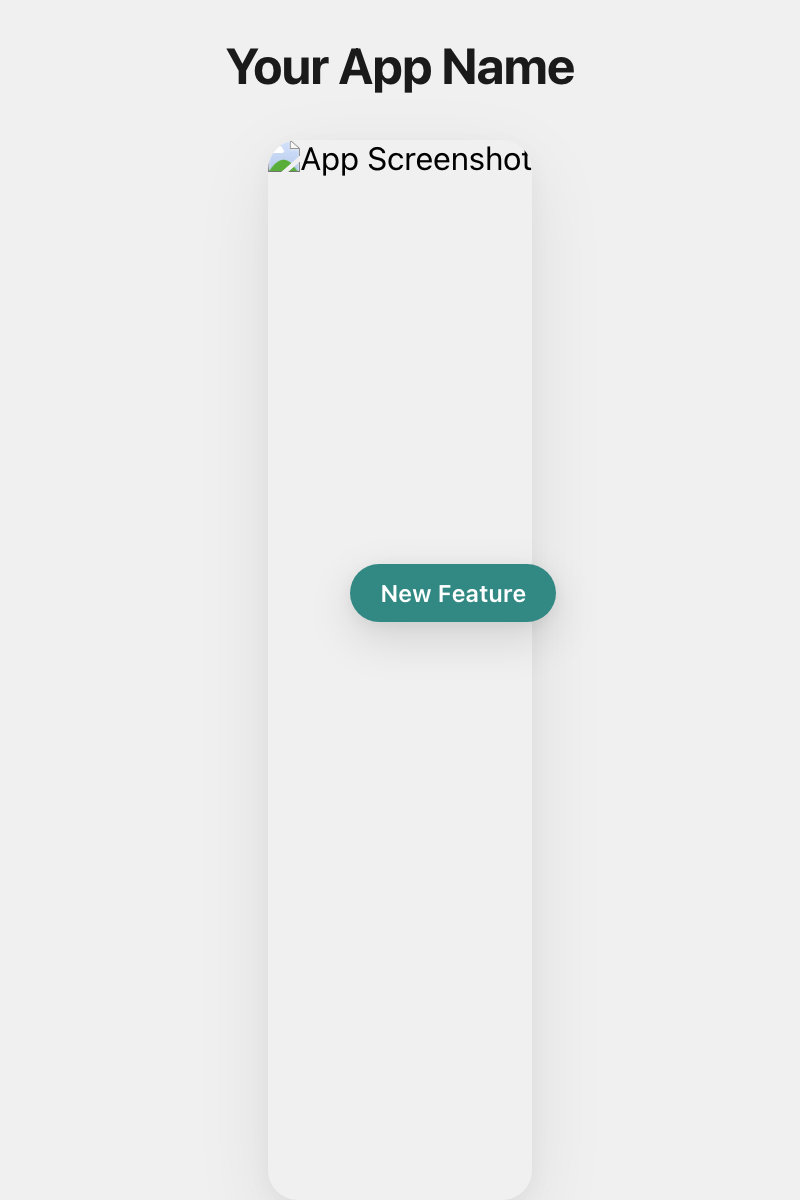
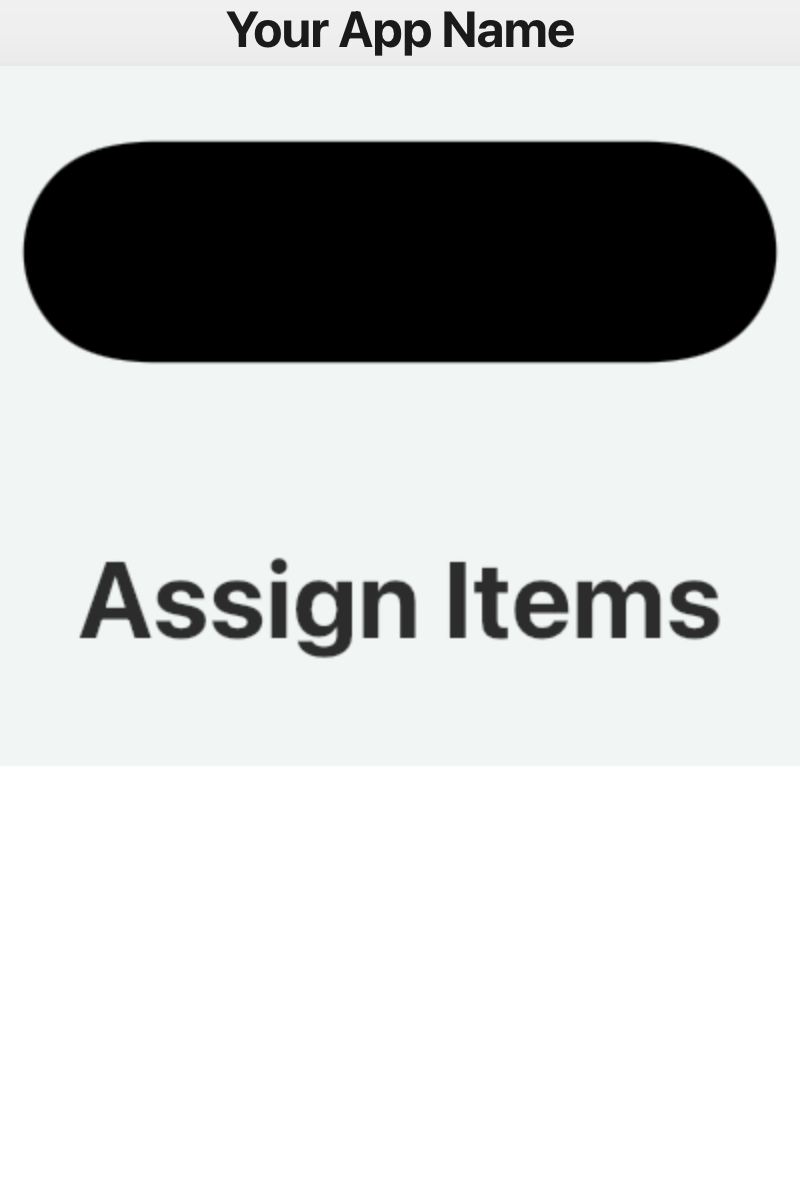
Add demo screenshot fallback to all templates
Templates now show a Checkmate app screenshot by default when no
user image is uploaded. User-uploaded images override the demo via
the src param. Also fixes feature-callout layout and regenerates
all thumbnails with the demo image.

diff --git a/app/static/templates/feature-callout/index.html b/app/static/templates/feature-callout/index.html
@@ -41,28 +41,29 @@
     align-items: flex-start;
     justify-content: center;
     width: 100%;
-    padding: 1% 8% 0;
+    padding: 1% 12% 0;
     position: relative;
+    overflow: visible;
   }
 
   .screenshot-wrapper {
     position: relative;
     height: 100%;
-    display: flex;
-    align-items: flex-start;
-    justify-content: center;
+    aspect-ratio: 9 / 19.5;
+    flex-shrink: 0;
   }
 
   .screenshot-wrapper img {
+    width: 100%;
     height: 100%;
-    object-fit: contain;
+    object-fit: cover;
     border-radius: 2.5vh;
     box-shadow: 0 12px 40px rgba(0,0,0,0.08), 0 4px 12px rgba(0,0,0,0.04);
   }
 
   .callout-badge {
     position: absolute;
-    right: -2vh;
+    right: -1vh;
     padding: 1.2vh 2.5vh;
     border-radius: 5vh;
     font-weight: 600;
@@ -70,6 +71,7 @@
     letter-spacing: -0.01em;
     white-space: nowrap;
     box-shadow: 0 8px 24px rgba(0,0,0,0.12), 0 2px 8px rgba(0,0,0,0.06);
+    z-index: 1;
   }
 
   .callout-badge::before {
@@ -109,7 +111,7 @@
     document.body.style.background = bgColor;
     document.getElementById('headline').style.color = textColor;
     document.getElementById('headline').textContent = params.get('headline') || '';
-    document.getElementById('screenshot').src = params.get('src') || '';
+    document.getElementById('screenshot').src = params.get('src') || '/demo-screenshot.png';
 
     const badge = document.getElementById('badge');
     badge.textContent = badgeText;

diff --git a/app/static/templates/dark-minimal/index.html b/app/static/templates/dark-minimal/index.html
@@ -174,7 +174,7 @@
     document.documentElement.style.setProperty('--screen-ratio', ratio);
 
     document.getElementById('headline').textContent = params.get('headline') || '';
-    document.getElementById('screenshot').src = params.get('src') || '';
+    document.getElementById('screenshot').src = params.get('src') || '/demo-screenshot.png';
 
     // Accent color on device outline border
     document.querySelector('.device-outline').style.borderColor = accentColor + '40';

diff --git a/app/static/templates/bold-type/index.html b/app/static/templates/bold-type/index.html
@@ -87,7 +87,7 @@
     document.getElementById('headline').textContent = params.get('headline') || '';
     document.getElementById('subtitle').style.color = textColor;
     document.getElementById('subtitle').textContent = params.get('subtitle') || '';
-    document.getElementById('screenshot').src = params.get('src') || '';
+    document.getElementById('screenshot').src = params.get('src') || '/demo-screenshot.png';
   </script>
 </body>
 </html>

diff --git a/app/static/templates/clean-flat/index.html b/app/static/templates/clean-flat/index.html
@@ -68,7 +68,7 @@
     document.body.style.background = bgColor;
     document.getElementById('headline').style.color = textColor;
     document.getElementById('headline').textContent = params.get('headline') || '';
-    document.getElementById('screenshot').src = params.get('src') || '';
+    document.getElementById('screenshot').src = params.get('src') || '/demo-screenshot.png';
   </script>
 </body>
 </html>

diff --git a/app/static/templates/gradient-bezel/index.html b/app/static/templates/gradient-bezel/index.html
@@ -364,7 +364,7 @@
 
     // Read params
     const headline = params.get('headline') || '';
-    const src = params.get('src') || '';
+    const src = params.get('src') || '/demo-screenshot.png';
     const layout = params.get('layout') || 'text-above';
     const device = params.get('device') || 'iphone';
     const gradientFrom = params.get('gradient_from') || 'D4A574';

diff --git a/app/static/templates/glass-card/index.html b/app/static/templates/glass-card/index.html
@@ -129,7 +129,7 @@
     document.getElementById('orb3').style.background = color3;
 
     document.getElementById('headline').textContent = params.get('headline') || '';
-    document.getElementById('screenshot').src = params.get('src') || '';
+    document.getElementById('screenshot').src = params.get('src') || '/demo-screenshot.png';
   </script>
 </body>
 </html>

diff --git a/app/static/templates/panoramic/index.html b/app/static/templates/panoramic/index.html
@@ -113,7 +113,7 @@
     document.body.style.backgroundPosition = `${offset}% 0%`;
 
     document.getElementById('headline').textContent = params.get('headline') || '';
-    document.getElementById('screenshot').src = params.get('src') || '';
+    document.getElementById('screenshot').src = params.get('src') || '/demo-screenshot.png';
   </script>
 </body>
 </html>
